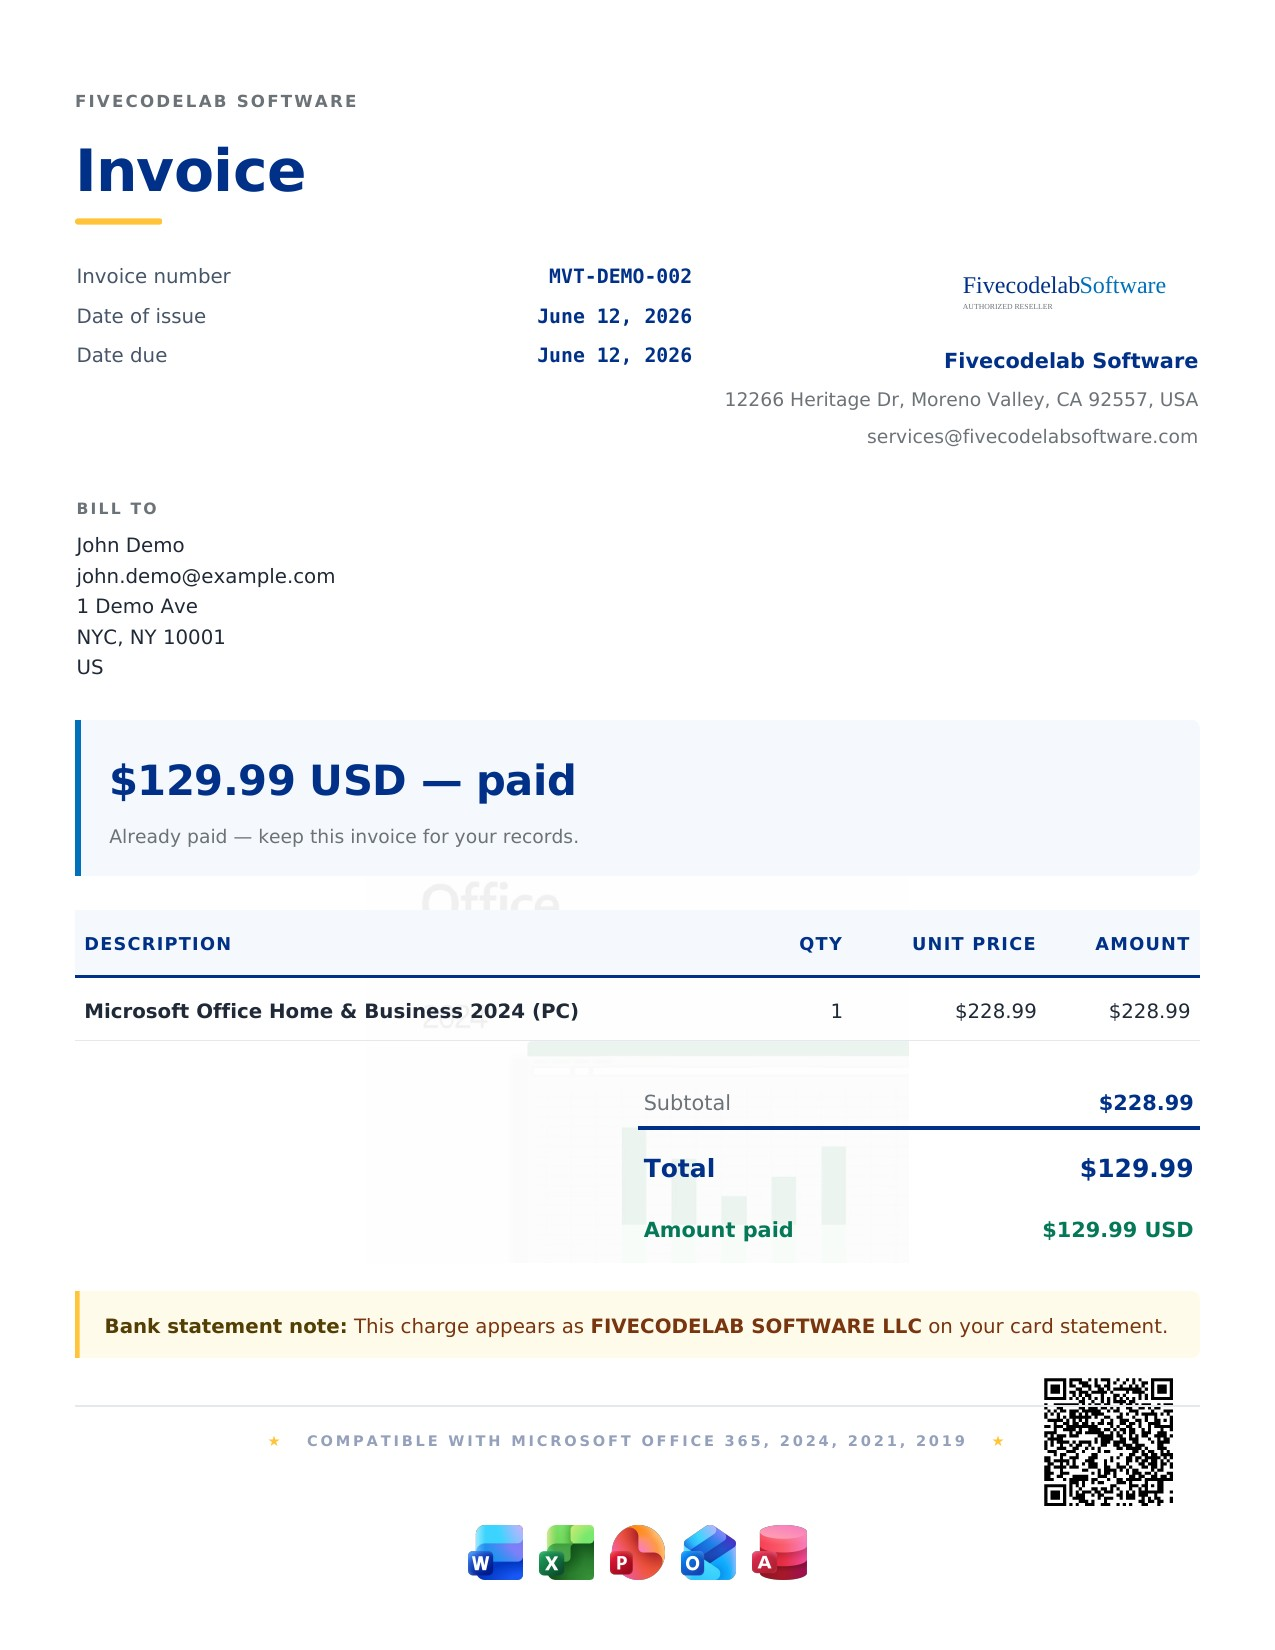
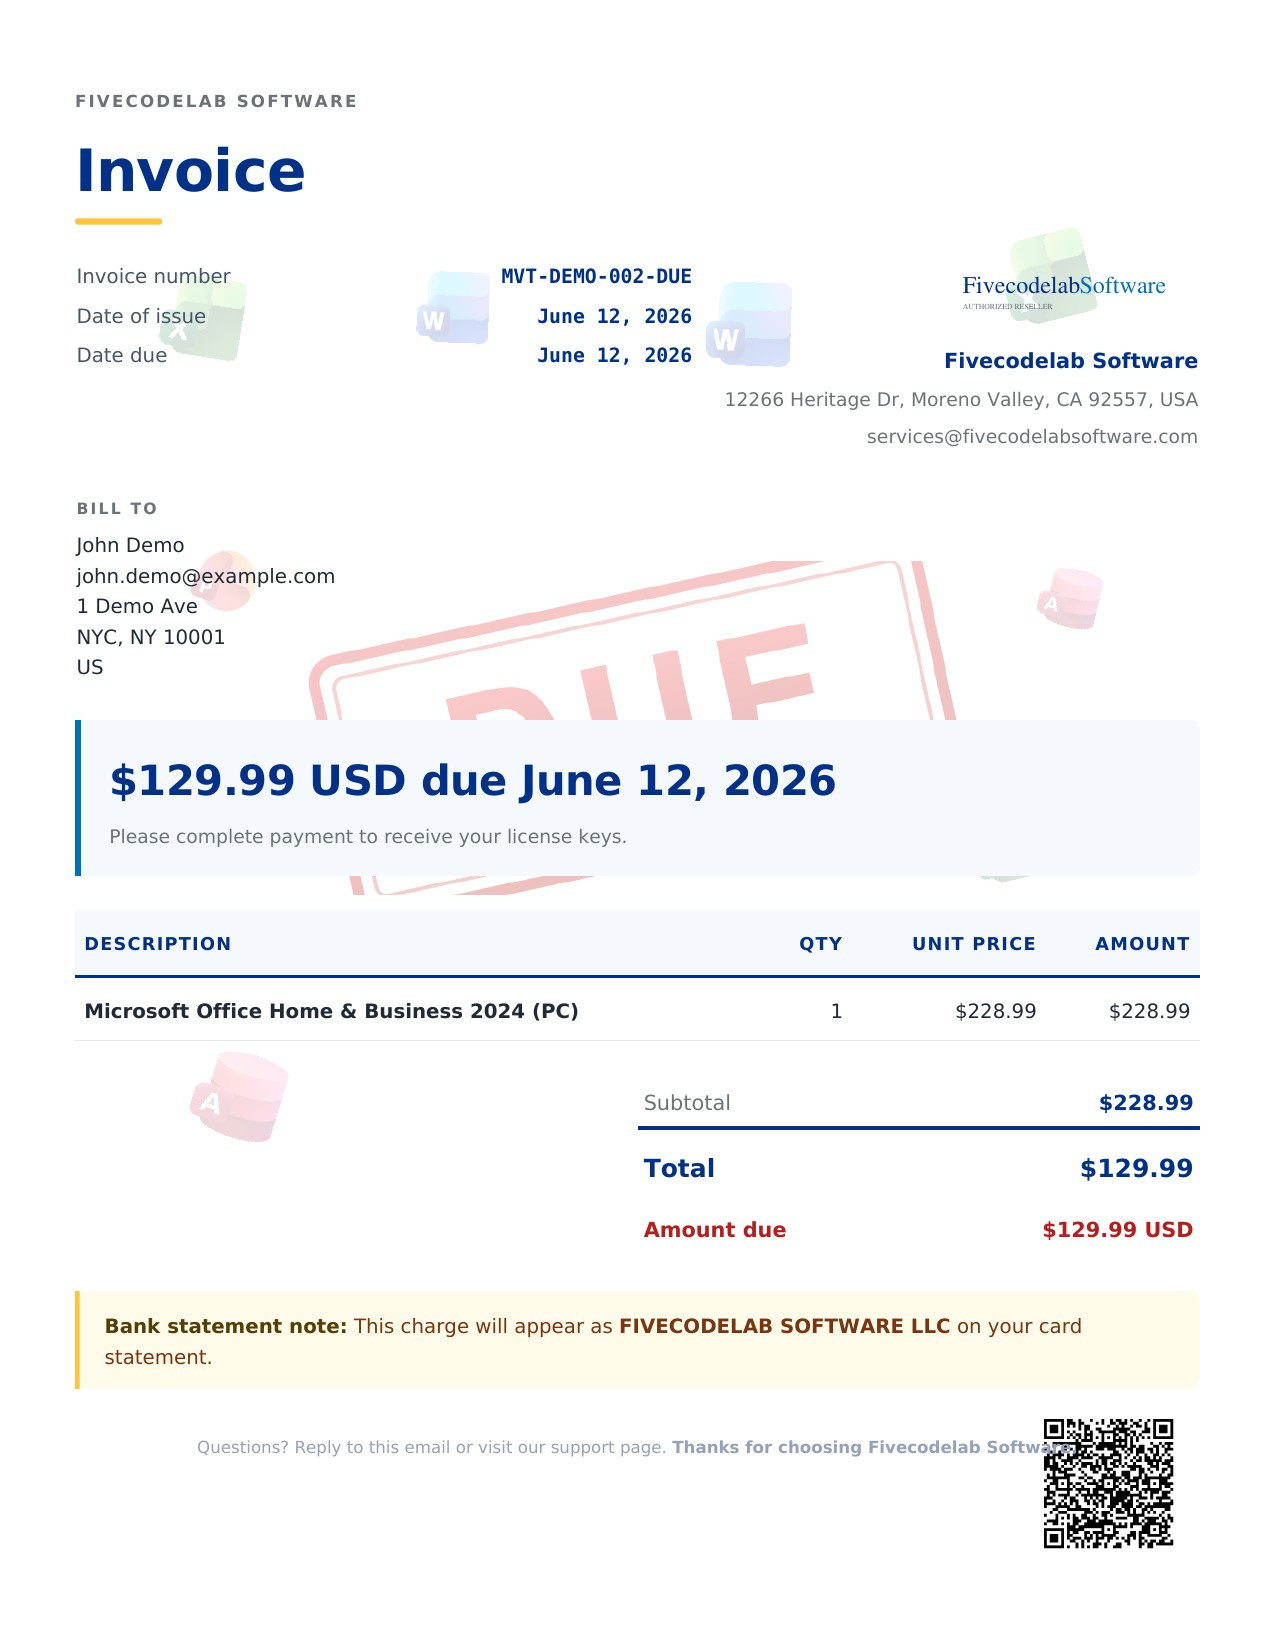
auto-commit for 3b4dacf5-5eb0-4248-ab0f-a205616af75c

diff --git a/php-version/includes/pdf.php b/php-version/includes/pdf.php
@@ -101,7 +101,7 @@ function _pdf_make_qr(string $payload): string
  *     entry (order number + email pre-filled).  Anyone holding a printed
  *     copy can scan to pull a fresh digital PDF on the spot.
  */
-function _pdf_apply_brand_layers(Dompdf $dompdf, string $productImageUrl = '', string $qrPayload = ''): void
+function _pdf_apply_brand_layers(Dompdf $dompdf, string $productImageUrl = '', string $qrPayload = '', string $orderStatus = '', string $scatterSeed = ''): void
 {
     $canvas = $dompdf->getCanvas();
     if (!$canvas) return;
@@ -109,63 +109,74 @@ function _pdf_apply_brand_layers(Dompdf $dompdf, string $productImageUrl = '', s
     $pageW = $canvas->get_width();
     $pageH = $canvas->get_height();
 
-    // 1) Centre watermark — the purchased product, low opacity, dimmed
-    $wmPath = '';
-    if ($productImageUrl !== '') {
-        $wmPath = _pdf_cache_image($productImageUrl);
-    }
-
-    // 2) Tiny Office app icon ornament strip (top-right corner, under the brand block)
-    $apps = [
-        __DIR__ . '/../assets/images/cache/word.png',
-        __DIR__ . '/../assets/images/cache/excel.jpg',
-        __DIR__ . '/../assets/images/cache/powerpoint.png',
-        __DIR__ . '/../assets/images/cache/outlook.png',
-        __DIR__ . '/../assets/images/cache/access.png',
-    ];
-    $apps = array_values(array_filter($apps, 'is_file'));
-
-    // Build the page_script that fires once per page
     $scriptLines = [];
 
-    if ($wmPath) {
-        $wmSize = 260.0; // hero centred mark — sized so it doesn't crowd BILL TO or totals
-        $wmX = ($pageW - $wmSize) / 2.0;
-        $wmY = ($pageH - $wmSize) / 2.0 + 80; // shifted noticeably below page centre, sits in the empty band under the items table
-        // We bake opacity into the source PNG (set_opacity isn't reliable for images on CPDF),
-        // so re-encode the product image to a soft alpha version once, on demand.
-        $softPath = _pdf_make_soft_image($wmPath, 0.09);
-        if ($softPath) {
-            $sw = var_export($softPath, true);
-            $scriptLines[] = "\$pdf->image($sw, $wmX, $wmY, $wmSize, $wmSize);";
-        }
+    // 1) Scattered Microsoft Office app icons — soft watermarks dotted across
+    //    the entire page (NOT a bottom strip). Deterministic positions seeded
+    //    by the order number so the same order always lays out identically
+    //    (great for printed copies looking identical to digital).
+    $appDir = __DIR__ . '/../assets/images/cache/soft-apps';
+    $apps = [];
+    foreach (['word.png','excel.png','powerpoint.png','outlook.png','access.png'] as $fn) {
+        $p = realpath($appDir . '/' . $fn);
+        if ($p) $apps[] = $p;
     }
-
     if (!empty($apps)) {
-        // 26-pt icons spaced 8-pt apart along the bottom-centre ornament strip.
-        // The icons themselves communicate "Compatible with Microsoft Office apps"
-        // — no text label is needed (and Dompdf's text() API requires a resolved
-        // font object that isn't trivially available inside page_script).
-        $iconSize = 26.0;
-        $gap      = 8.0;
-        $stripW   = (count($apps) * ($iconSize + $gap)) - $gap;
-        $stripX   = ($pageW - $stripW) / 2.0;   // centered horizontally
-        $stripY   = $pageH - 60;                // bottom margin = 60pt
-        foreach ($apps as $i => $ap) {
-            $x = $stripX + $i * ($iconSize + $gap);
-            $ap = realpath($ap) ?: $ap;
-            $scriptLines[] = "\$pdf->image(" . var_export($ap, true) . ", $x, $stripY, $iconSize, $iconSize);";
+        $seed = crc32(($scatterSeed !== '' ? $scatterSeed : 'fivecodelab') . '|' . count($apps));
+        mt_srand($seed);
+        // 14 icons spread across the page in a jittered grid (avoids overlap)
+        $cols = 4; $rows = 5;
+        $cellW = ($pageW - 80) / $cols;
+        $cellH = ($pageH - 140) / $rows;   // leave room top + bottom
+        $count = 0;
+        for ($r = 0; $r < $rows; $r++) {
+            for ($c = 0; $c < $cols; $c++) {
+                if (++$count > 14) break 2;
+                // Skip the centre two cells so the totals / amount banner stays clean
+                if ($r >= 1 && $r <= 3 && ($c === 1 || $c === 2)) continue;
+                $ap   = $apps[mt_rand(0, count($apps) - 1)];
+                $size = mt_rand(28, 44);
+                $jx   = mt_rand(-22, 22);
+                $jy   = mt_rand(-18, 18);
+                $rot  = mt_rand(-18, 18);
+                $x    = 40 + $c * $cellW + ($cellW - $size) / 2.0 + $jx;
+                $y    = 80 + $r * $cellH + ($cellH - $size) / 2.0 + $jy;
+                $cx   = $x + $size / 2.0;
+                $cy   = $y + $size / 2.0;
+                $img  = var_export($ap, true);
+                $scriptLines[] = "\$pdf->save(); \$pdf->rotate($rot, $cx, $cy); \$pdf->image($img, $x, $y, $size, $size); \$pdf->restore();";
+            }
         }
     }
 
-    // 3) Bottom-right QR — deep links to the customer's Order History entry.
+    // 2) PAID / DUE rubber stamp — large, semi-transparent, rotated.
+    //    Light-coloured (32% alpha baked into the source PNG so totals
+    //    sitting on top stay perfectly readable).
+    $statusKey = strtolower(trim($orderStatus));
+    $stampFile = null;
+    if (in_array($statusKey, ['paid','fulfilled','completed','complete'], true)) {
+        $stampFile = realpath(__DIR__ . '/../assets/images/brand/stamp-paid-soft.png');
+    } elseif (in_array($statusKey, ['pending','unpaid','awaiting','due','overdue'], true)) {
+        $stampFile = realpath(__DIR__ . '/../assets/images/brand/stamp-due-soft.png');
+    }
+    if ($stampFile) {
+        $stampW = 320.0;  // generous — clear "PAID/DUE" call-out
+        $stampH = 160.0;
+        $stampX = ($pageW - $stampW) / 2.0;
+        $stampY = $pageH * 0.34;   // upper-middle of the page
+        $img = var_export($stampFile, true);
+        $scriptLines[] = "\$pdf->image($img, $stampX, $stampY, $stampW, $stampH);";
+    }
+
+    // 3) Bottom-right QR code — deep links to the customer's Order Lookup.
     if ($qrPayload !== '') {
         $qrPath = _pdf_make_qr($qrPayload);
         if ($qrPath) {
             $qrSize = 64.0;
-            $qrX    = $pageW - 48 - $qrSize;     // 48pt right margin
-            $qrY    = $pageH - 64 - $qrSize - 4; // sits above the app-icon strip
-            $scriptLines[] = "\$pdf->image(" . var_export($qrPath, true) . ", $qrX, $qrY, $qrSize, $qrSize);";
+            $qrX    = $pageW - 48 - $qrSize;
+            $qrY    = $pageH - 48 - $qrSize;
+            $img = var_export($qrPath, true);
+            $scriptLines[] = "\$pdf->image($img, $qrX, $qrY, $qrSize, $qrSize);";
         }
     }
 
@@ -378,9 +389,6 @@ function _pdf_shell(array $ctx, string $bodyHtml): string
 
   {$bodyHtml}
 
-  <div class="ms-ornament-label">
-    <span class="accent">★</span> &nbsp; Compatible with Microsoft Office 365, 2024, 2021, 2019 &nbsp; <span class="accent">★</span>
-  </div>
   <div class="footer">
     Questions? Reply to this email or visit our support page. <strong>Thanks for choosing {$brand}.</strong>
     <span class="legal">Microsoft®, Office® and Windows® are trademarks of Microsoft Corporation. {$brand} is independent of and not affiliated with Microsoft Corporation.</span>
@@ -484,7 +492,7 @@ function generate_receipt_pdf(array $order, array $items, ?array $payment = null
     $qrPayload = function_exists('site_url')
         ? (rtrim(site_url(), '/') . '/order-lookup.php?o=' . urlencode((string)$order['order_number']) . '&e=' . urlencode((string)($order['email'] ?? '')))
         : '';
-    _pdf_apply_brand_layers($dompdf, $heroProductImg, $qrPayload);
+    _pdf_apply_brand_layers($dompdf, $heroProductImg, $qrPayload, (string)($order['status'] ?? ''), (string)$order['order_number']);
     $dompdf->render();
     return $dompdf->output();
 }
@@ -570,7 +578,7 @@ function generate_invoice_pdf(array $order, array $items): string
     $qrPayload = function_exists('site_url')
         ? (rtrim(site_url(), '/') . '/order-lookup.php?o=' . urlencode((string)$order['order_number']) . '&e=' . urlencode((string)($order['email'] ?? '')))
         : '';
-    _pdf_apply_brand_layers($dompdf, $heroProductImg, $qrPayload);
+    _pdf_apply_brand_layers($dompdf, $heroProductImg, $qrPayload, (string)($order['status'] ?? ''), (string)$order['order_number']);
     $dompdf->render();
     return $dompdf->output();
 }
